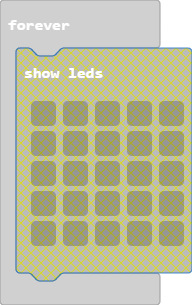
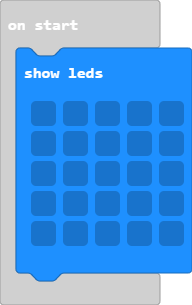
Update main.blocks, main.ts

diff --git a/main.ts b/main.ts
@@ -1,3 +1,10 @@
+basic.showLeds(`
+    . . . . .
+    . . . . .
+    . . . . .
+    . . . . .
+    . . . . .
+    `)
 basic.forever(function () {
 	
 })
